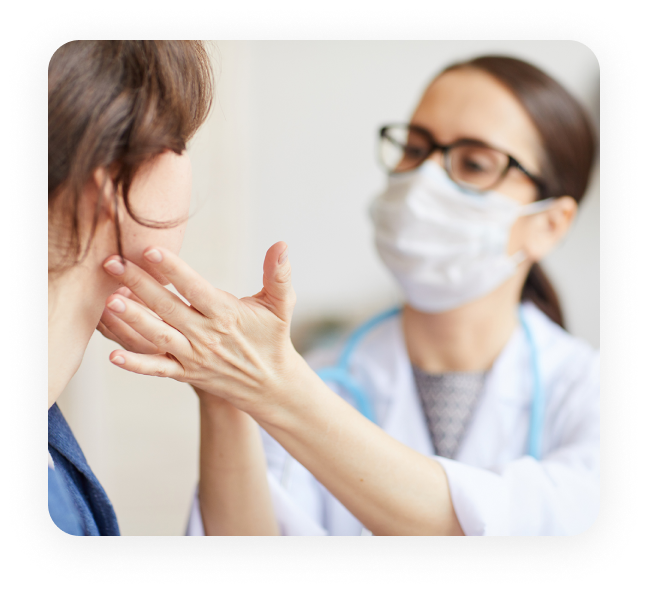
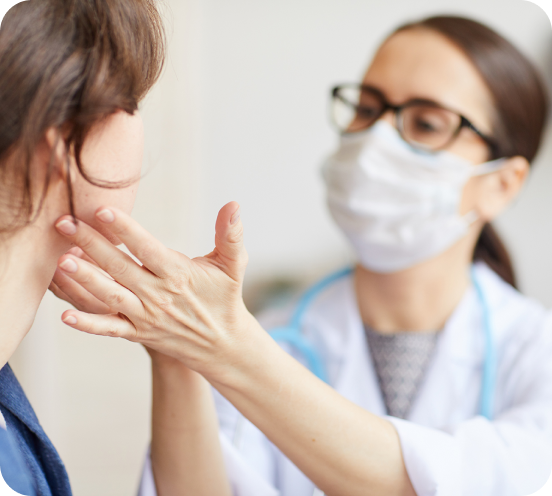
Картинка, фиксы

diff --git a/index.html b/index.html
@@ -8,18 +8,18 @@
   </head>
 
   <body>
-    <section class="squad">
-      <div class="squad__body container">
-        <div class="squad__text">
+    <section class="commands">
+      <div class="commands__body container">
+        <div class="commands__text">
           <h2>Что входит в каждый чекап?</h2>
           <a href="#" class="button" title="Оставить заявку" target="_blank"
             >Оставить заявку</a
           >
         </div>
 
-        <div class="squad-card-list">
-          <div class="squad-card">
-            <div class="squad-card__text">
+        <div class="commands-card-list">
+          <div class="commands-card commands-card--image">
+            <div class="commands-card__text">
               <h3>Диагностика</h3>
               Врачи проведут обследования каждого члена команды прямо у вас
               в офисе или ближайшей клинике.
@@ -27,21 +27,26 @@
               Медэксперт возьмет необходимые анализы и выполнит всестороннюю
               оценку состояния здоровья сотрудника.
             </div>
-            <div class="squad-card__num">1</div>
+            <div class="commands-card-num commands-card-img">
+              <img src="./images/card-image-one.png" alt="Картинка" />
+              <div class="commands-card__num">1</div>
+            </div>
           </div>
 
-          <div class="squad-card">
-            <div class="squad-card__text">
+          <div class="commands-card">
+            <div class="commands-card__text">
               <h3>Персональная карта здоровья</h3>
               По результатам диагностики каждый сотрудник получает персональную
               карту здоровья. С его персональными рисками и рекомендациями
               по улучшению состояния здоровья.
             </div>
-            <div class="squad-card__num">2</div>
+            <div class="commands-card-num">
+              <div class="commands-card__num">2</div>
+            </div>
           </div>
 
-          <div class="squad-card">
-            <div class="squad-card__text">
+          <div class="commands-card">
+            <div class="commands-card__text">
               <h3>Сопровождение</h3>
               По выявленным рискам мы сопровождаем ваших сотрудников в течение
               всего действия программы.
@@ -50,7 +55,9 @@
               неограниченное количество раз в месяц онлайн в чате, голосом или
               по видеосвязи.
             </div>
-            <div class="squad-card__num">3</div>
+            <div class="commands-card-num">
+              <div class="commands-card__num">3</div>
+            </div>
           </div>
         </div>
       </div>

diff --git a/styles/sections/squad.scss b/styles/sections/squad.scss
@@ -1,4 +1,4 @@
-.squad {
+.commands {
   padding: 144px 168px;
 
   background: #f3ebe1;
@@ -8,7 +8,7 @@
 
     gap: 96px;
 
-    .squad-card-list {
+    .commands-card-list {
       display: flex;
       flex-direction: column;
 
@@ -31,8 +31,8 @@
     border-radius: 32px;
 
     max-width: 720px;
-    padding: 48px;
     gap: 32px;
+    padding: 48px;
 
     background: #ffffff;
 
@@ -49,12 +49,42 @@
         margin-bottom: 12px;
       }
     }
-    &__num {
+    &-num {
       font-family: Gerbera;
       font-size: 150px;
       line-height: 140px;
 
       color: #ef553b;
+    }
+    &__num {
+      line-height: 100px;
+    }
+    &-img {
+      position: relative;
+
+      img {
+        width: 100%;
+        min-width: 276px;
+        height: 100%;
+
+        filter: drop-shadow(0px 4px 24px rgba(0, 0, 0, 0.1));
+        border-radius: 16px;
+
+        object-fit: contain;
+
+        padding-top: 52px;
+      }
+    }
+    .commands-card-img.commands-card-num {
+      .commands-card__num {
+        position: absolute;
+
+        top: 0px;
+        right: 12px;
+      }
+    }
+    &--image {
+      padding: 48px 36px 48px 48px;
     }
   }
 }
